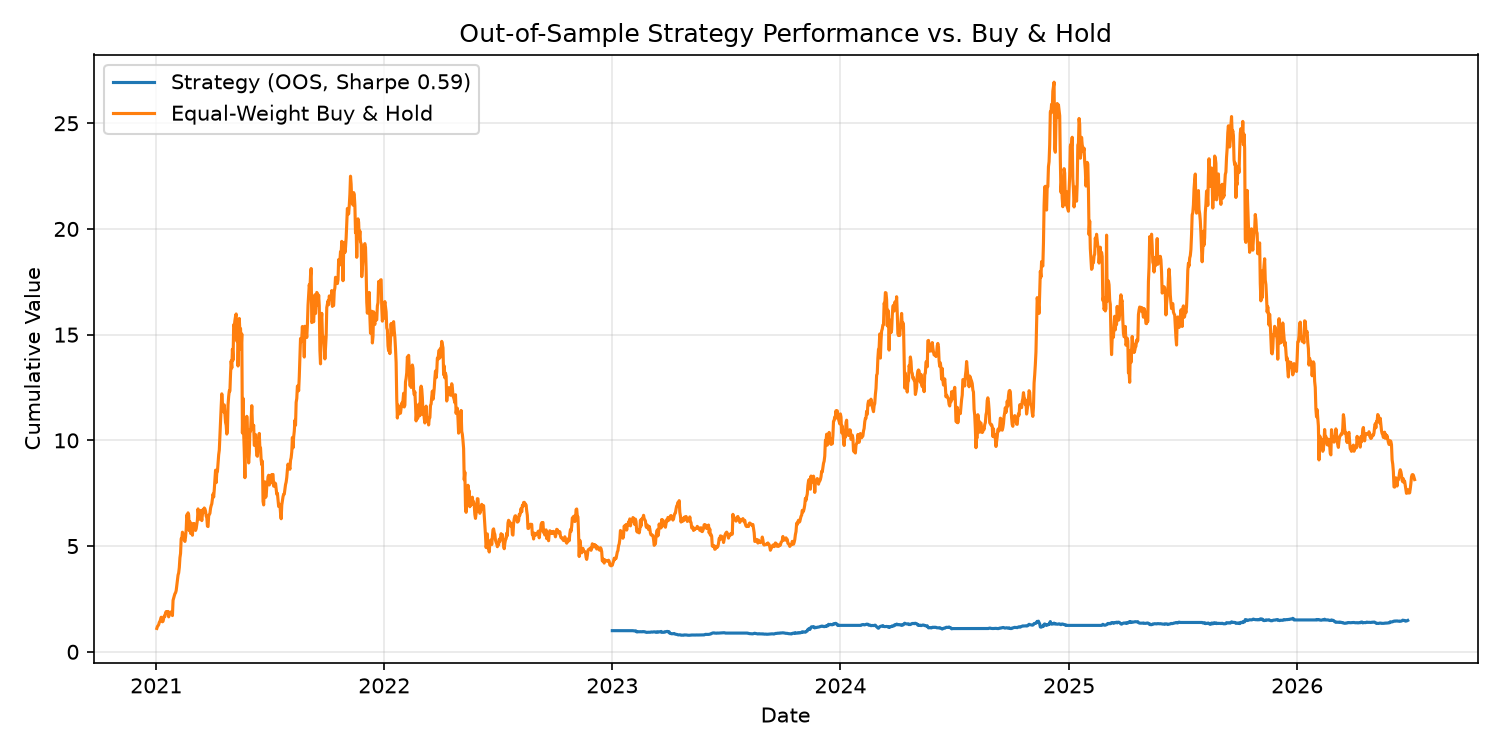
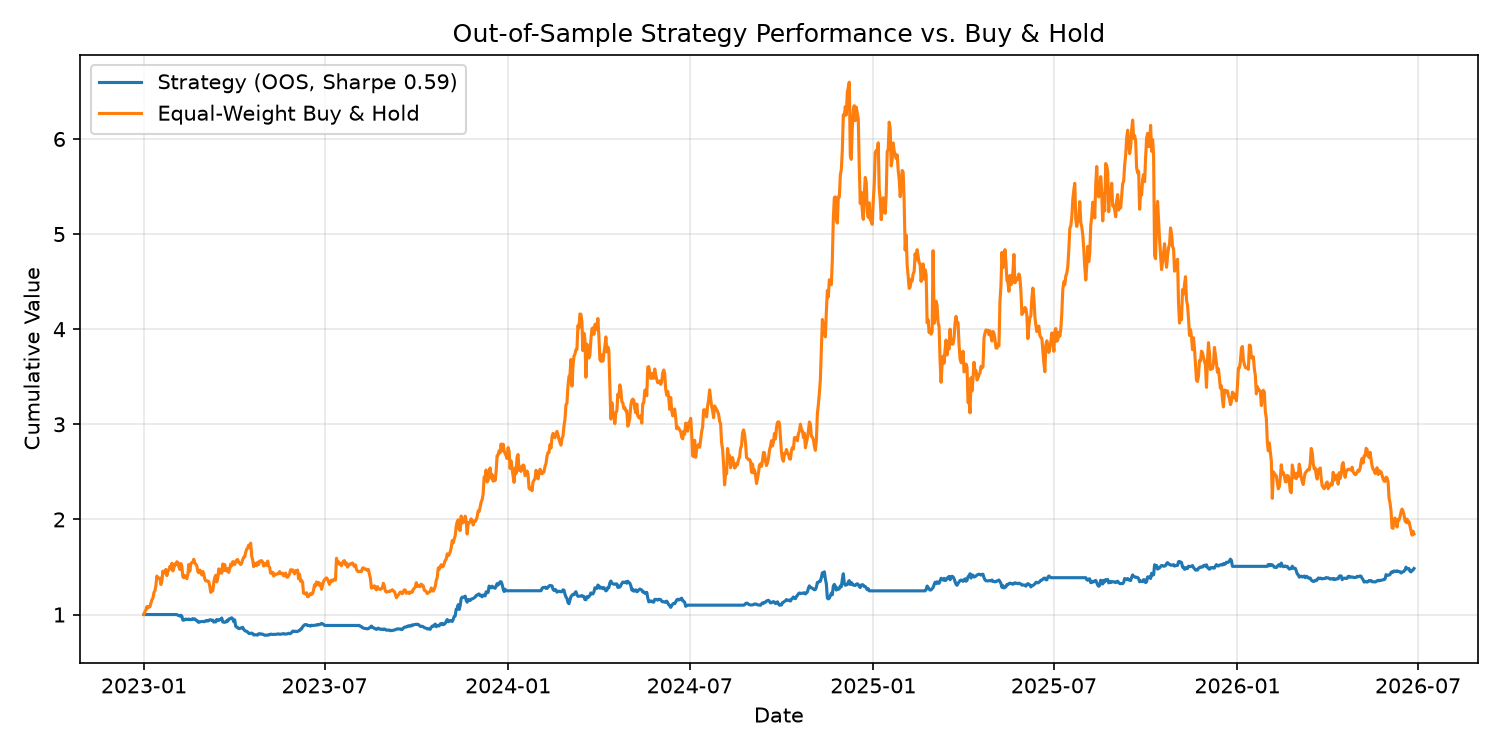
Fix B&H date alignment in equity curve plot, sync main.py to 4-value return

diff --git a/research/plot.py b/research/plot.py
@@ -1,6 +1,10 @@
 """Plot the stitched out-of-sample equity curve from rolling walk-forward
 against equal-weight buy-and-hold, over the same date range."""
 
+import sys
+from pathlib import Path
+sys.path.insert(0, str(Path(__file__).parent.parent))
+
 import matplotlib.pyplot as plt
 from engine.config import CRYPTO_TICKERS, N_LONG, N_SHORT, VOL_LOOKBACK
 from engine.data import data
@@ -15,8 +19,8 @@ def plot_oos_vs_buy_and_hold(close, returns, n_long, n_short, vol_lookback):
         close, returns, n_long, n_short, vol_lookback
     )
 
-    bh_returns = returns.mean(axis=1)
-    bh_performance = compute_cum_returns(bh_returns)
+    bh_returns = returns.mean(axis=1).loc[oos_performance.index]   # ← slice raw returns first
+    bh_performance = compute_cum_returns(bh_returns)   
 
     plt.figure(figsize=(10, 5))
     plt.plot(oos_performance.index, oos_performance.values, label=f"Strategy (OOS, Sharpe {oos_sharpe:.2f})")

diff --git a/main.py b/main.py
@@ -55,7 +55,7 @@ def main():
 
     # --- 3 & 4. Walk-forward: rolling only (single-split is a special case, skip duplicating) ---
     section("3. ROLLING WALK-FORWARD VALIDATION  (multiple train/test windows)")
-    windows, oos_sharpe, oos_mdd = walk_forward_analysis(
+    windows, oos_sharpe, oos_mdd, oos_performance = walk_forward_analysis(
         universe_close, universe_returns, N_LONG, N_SHORT, VOL_LOOKBACK
     )
     print(windows.to_string(index=False))

diff --git a/research/validation.py b/research/validation.py
@@ -12,7 +12,7 @@ from strategies.momentum import cross_mom_strat
 from engine.backtest import costs, net_pnl, compute_cum_returns
 from engine.metrics import metrics
 
-def walk_forward_analysis(close, returns, n_long, n_short, vol_lookback) -> tuple[pd.DataFrame, float, float]:
+def walk_forward_analysis(close, returns, n_long, n_short, vol_lookback) -> tuple[pd.DataFrame, float, float, pd.Series]:
     """Select lookback/hold on a training window, evaluate on the held-out test window.
     """
     window_results = []

diff --git a/NOTES.md b/NOTES.md
@@ -28,6 +28,8 @@ Fixed it by rolling the train/test window forward through the whole history — 
 
 Average test Sharpe: 0.50. Stitched continuous out-of-sample Sharpe (concatenating every window's actual daily P&L into one series): 0.60. Standard deviation of test Sharpe across windows: 1.32 — larger than the mean.
 
+These are two different calculations, not conflicting estimates. The average (0.50) treats each of the 7 windows as one data point and averages their individual Sharpes equally, regardless of how long or volatile each window was. The stitched number (0.59-0.60, varies slightly run-to-run as underlying price data updates) is computed once on the single continuous daily P&L series formed by concatenating all 7 test windows in order — it reflects what you'd have actually earned trading straight through, re-tuning parameters at each window boundary. I use both: the average tells you how consistent the edge is window-to-window, the stitched number tells you the realized result of the whole strategy.
+
 **What this means:** the two single-split runs weren't wrong, they were unlucky/lucky draws from a distribution that actually centers around a modest positive Sharpe. The strategy has a real, if inconsistent, edge — not the 1.55 the naive sweep suggested, and not the near-zero either single split implied on its own. Performance is highly regime-dependent: strongly positive in some 6-month windows (2021 H2: 2.67), strongly negative in others (2021 H1: -1.12).
 
 Stitching every window's actual out-of-sample daily P&L into one continuous series and plotting it against equal-weight buy-and-hold (`research/plot.py`):